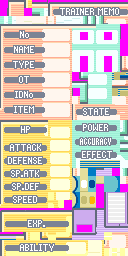
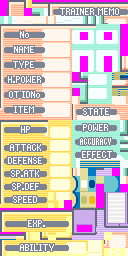
Show old summary screen info in addition to hp

Changed region(s): [[0.0625, 0.2812, 0.3438, 0.4062]]

diff --git a/src/pokemon_summary_screen.c b/src/pokemon_summary_screen.c
@@ -38,6 +38,7 @@
 
 const u8 sPhysStr[] =_("\nphys");
 const u8 sSpecStr[] =_("\nspec");
+const u8 sSpace[] =_(" ");
 const u8 sSpaces[] =_("      ");
 u8 sHiddenPowerType;
 
@@ -173,7 +174,7 @@ struct PokemonSummaryScreenData
         u8 ALIGNED(4) otNameStrBufs[2][12];
 
         u8 ALIGNED(4) dexNumStrBuf[5];
-        u8 ALIGNED(4) unk306C[7];
+        u8 ALIGNED(4) unk306C[15];
         u8 ALIGNED(4) itemNameStrBuf[ITEM_NAME_LENGTH + 1];
 
         u8 ALIGNED(4) genderSymbolStrBuf[3];
@@ -2164,12 +2165,16 @@ static void BufferMonInfo(void)
     dynamicMoveType |= F_DYNAMIC_TYPE_1 | F_DYNAMIC_TYPE_2;
     sHiddenPowerType = dynamicMoveType & DYNAMIC_TYPE_MASK;
 
-    GetMonData(&sMonSummaryScreen->currentMon, MON_DATA_OT_NAME, tempStr);
     StringCopy(sMonSummaryScreen->summary.otNameStrBuf, sSpaces);
     ConvertIntToDecimalStringN(sMonSummaryScreen->summary.otNameStrBuf+6, dynamicBasePower, STR_CONV_MODE_LEADING_ZEROS, 2);
 
+    GetMonData(&sMonSummaryScreen->currentMon, MON_DATA_OT_NAME, tempStr);
+    StringAppendN(tempStr, sSpace, 1);
+    StringCopyN_Multibyte(sMonSummaryScreen->summary.unk306C, tempStr, PLAYER_NAME_LENGTH + 1);
+
     otId = GetMonData(&sMonSummaryScreen->currentMon, MON_DATA_OT_ID) & 0xffff;
-    ConvertIntToDecimalStringN(sMonSummaryScreen->summary.unk306C, otId, STR_CONV_MODE_LEADING_ZEROS, 5);
+    ConvertIntToDecimalStringN(tempStr, otId, STR_CONV_MODE_LEADING_ZEROS, 5);
+    StringAppendN(sMonSummaryScreen->summary.unk306C, tempStr, 5);
 
     ConvertIntToDecimalStringN(tempStr, GetMonData(&sMonSummaryScreen->currentMon, MON_DATA_LEVEL), STR_CONV_MODE_LEFT_ALIGN, 3);
     StringCopy(sMonSummaryScreen->summary.levelStrBuf, gText_Lv);
